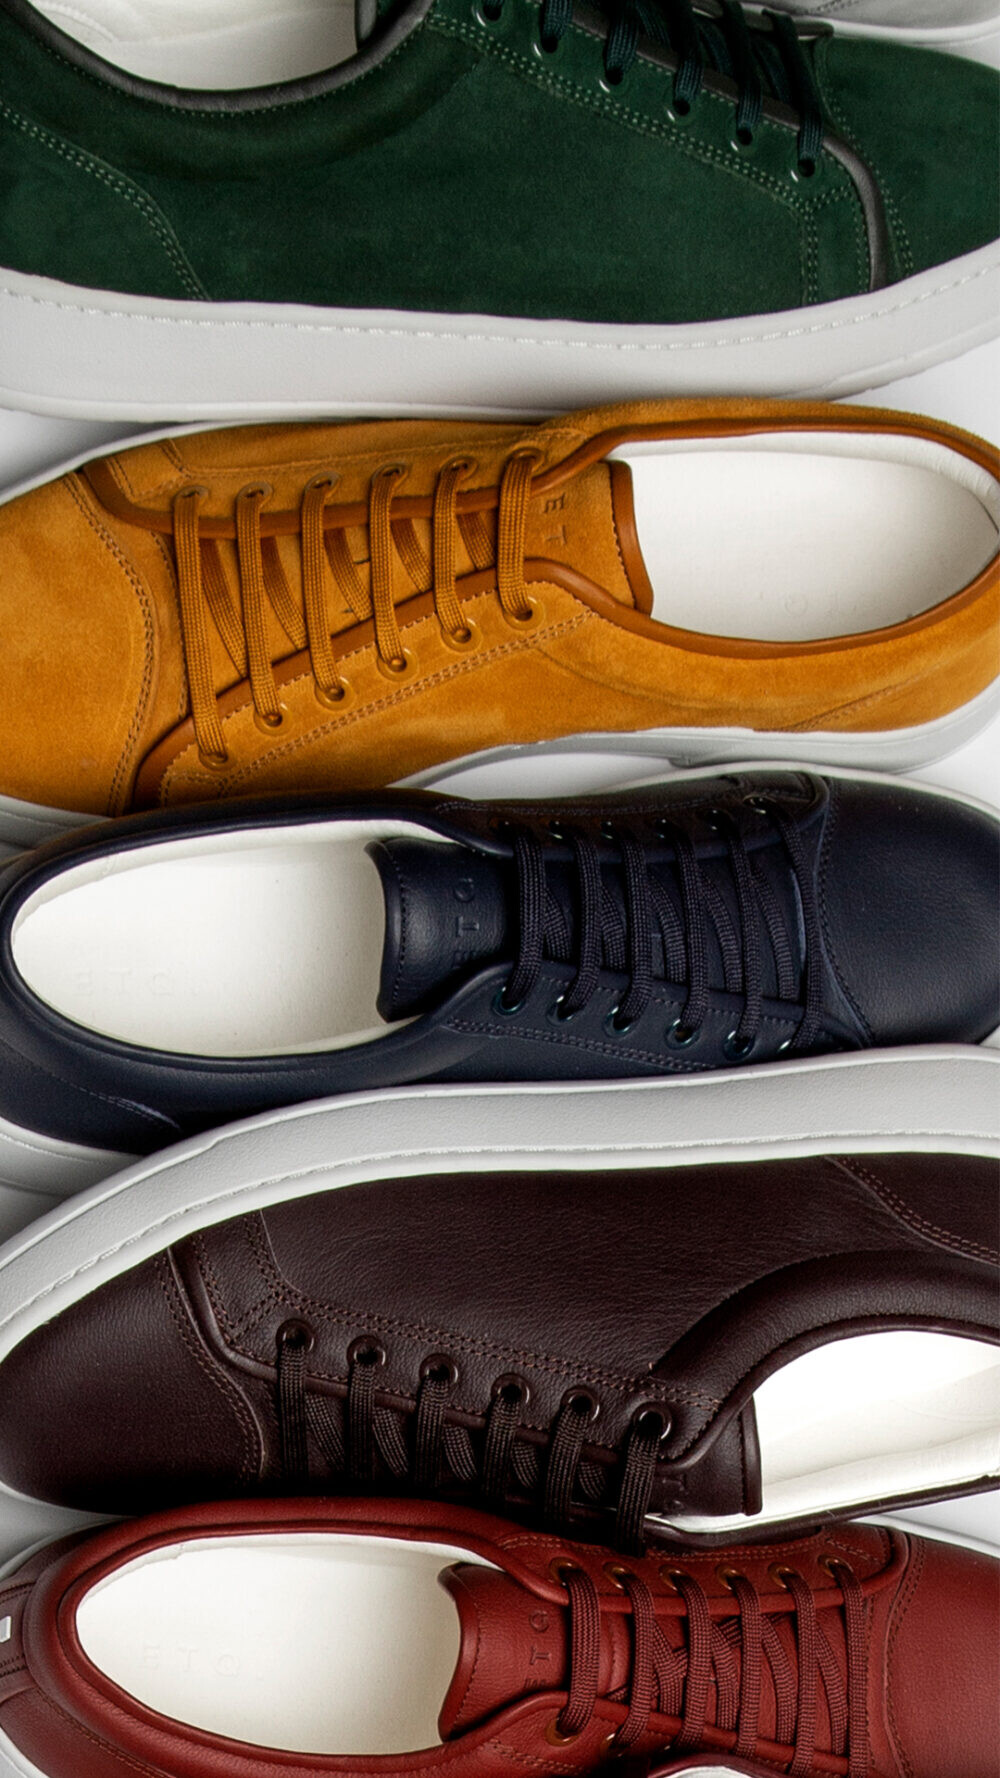
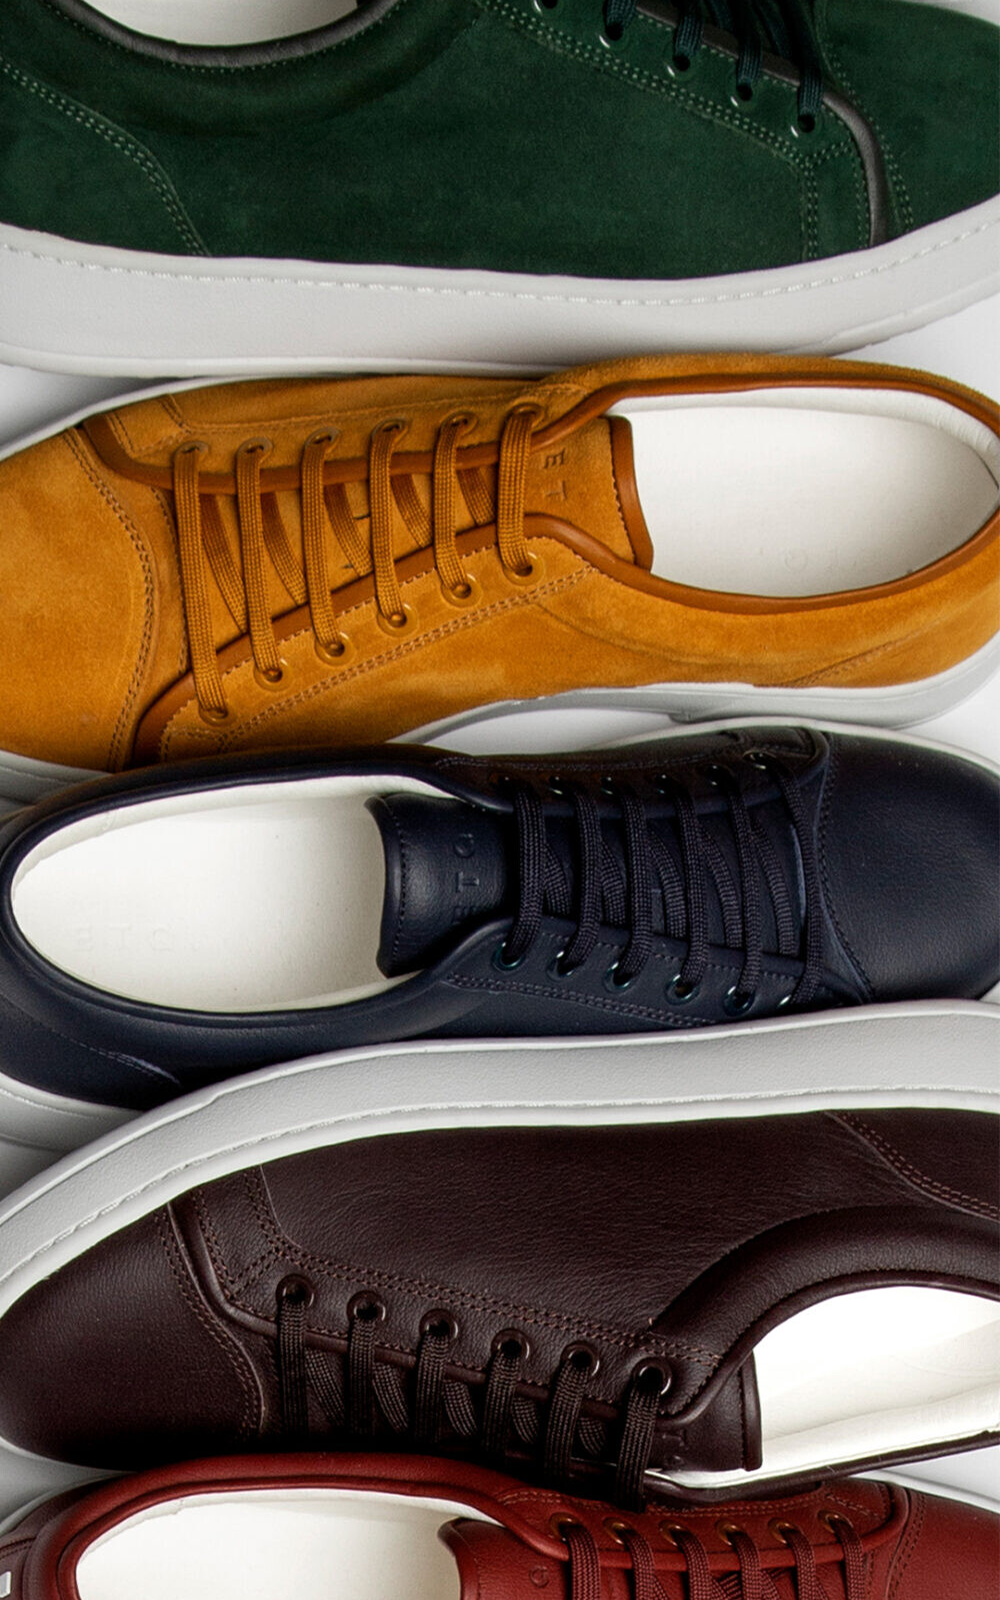
Add files via upload

diff --git a/scripts/script.js b/scripts/script.js
@@ -13,6 +13,23 @@ for (i = 0; i < coll.length; i++) {
   });
 }
 
+
+
+var myIndex = 0;
+carousel();
+
+function carousel() {
+  var i;
+  var x = document.getElementsByClassName("mySlides");
+  for (i = 0; i < x.length; i++) {
+    x[i].style.display = "none";  
+  }
+  myIndex++;
+  if (myIndex > x.length) {myIndex = 1}    
+  x[myIndex-1].style.display = "block";  
+  setTimeout(carousel, 2000); 
+}
+
 var buttontop = document.querySelector("#top");
 
 buttontop.addEventListener("click",topFunction);

diff --git a/styles/style.css b/styles/style.css
@@ -6,6 +6,7 @@ body{
 	margin: 0em 0.5em;
 }
 
+
 img{
     max-width: 100%;
     height: 25em;
@@ -99,17 +100,18 @@ p{
 
 .carrousel {
   position: relative;
-
+	padding-bottom: 3em;
 }
 .carrousel img{
-    height: auto;
+    height:100vh;
+
 }
 .tekst-in-foto {
   color: #ffffff;
   font-size: 35px;
   padding: 8px 12px;
   position: absolute;
-  bottom: 1.5em;
+  bottom: 2.5em;
   width: 100%;
   text-align: center;
 

diff --git a/index.html b/index.html
@@ -22,9 +22,13 @@
     </header>
 	<div class="carrousel">
 		<div class="slides">
-  		<img src="images/etq-home-2.jpg">
-    		<p class="tekst-in-foto">Shop our Essence Series</p>
+  			<div>
+				<img class="mySlides" src="images/etq-home-3.jpg">
+				<img class="mySlides" src="images/etq-home-2.jpg" >
+			</div>
+				<p class="tekst-in-foto">Shop our Essence Series</p>
 		</div>
+
 
 
 </div>
